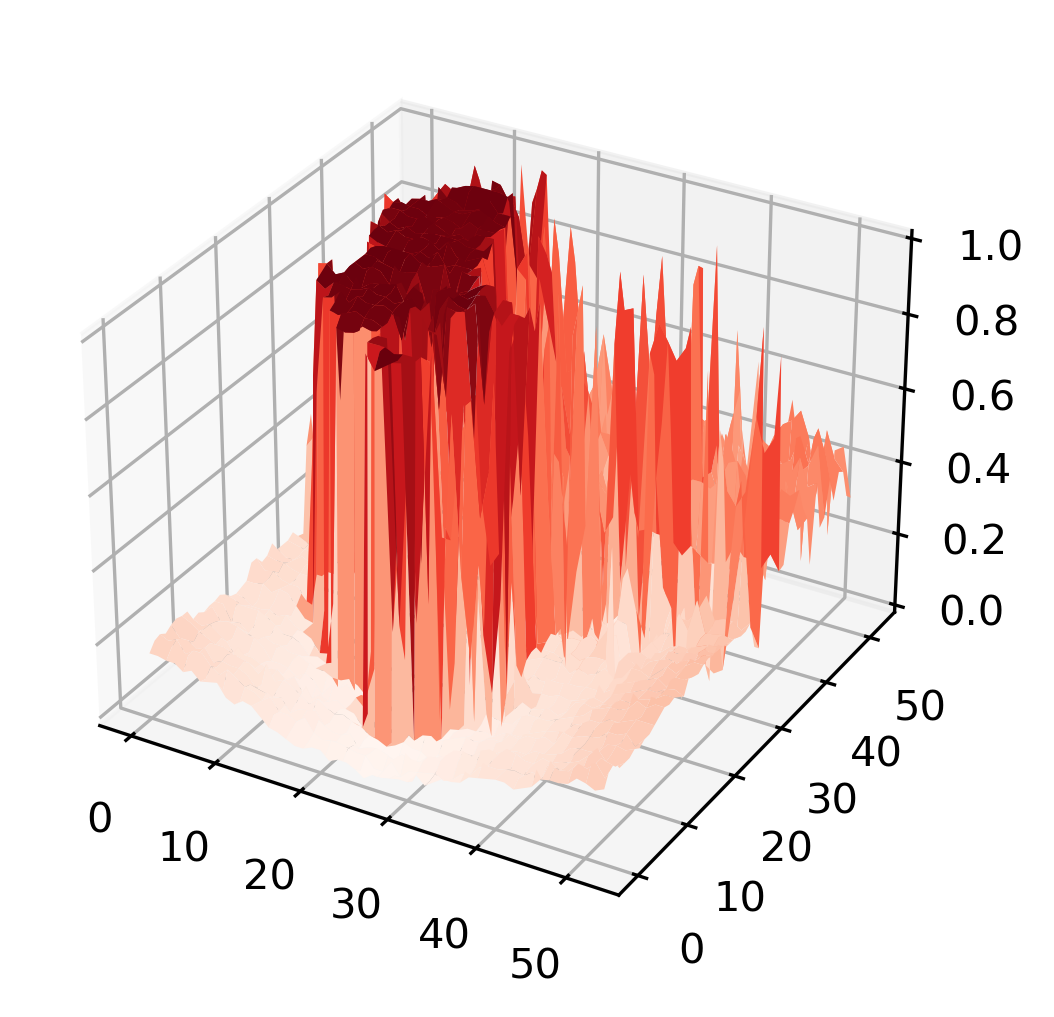
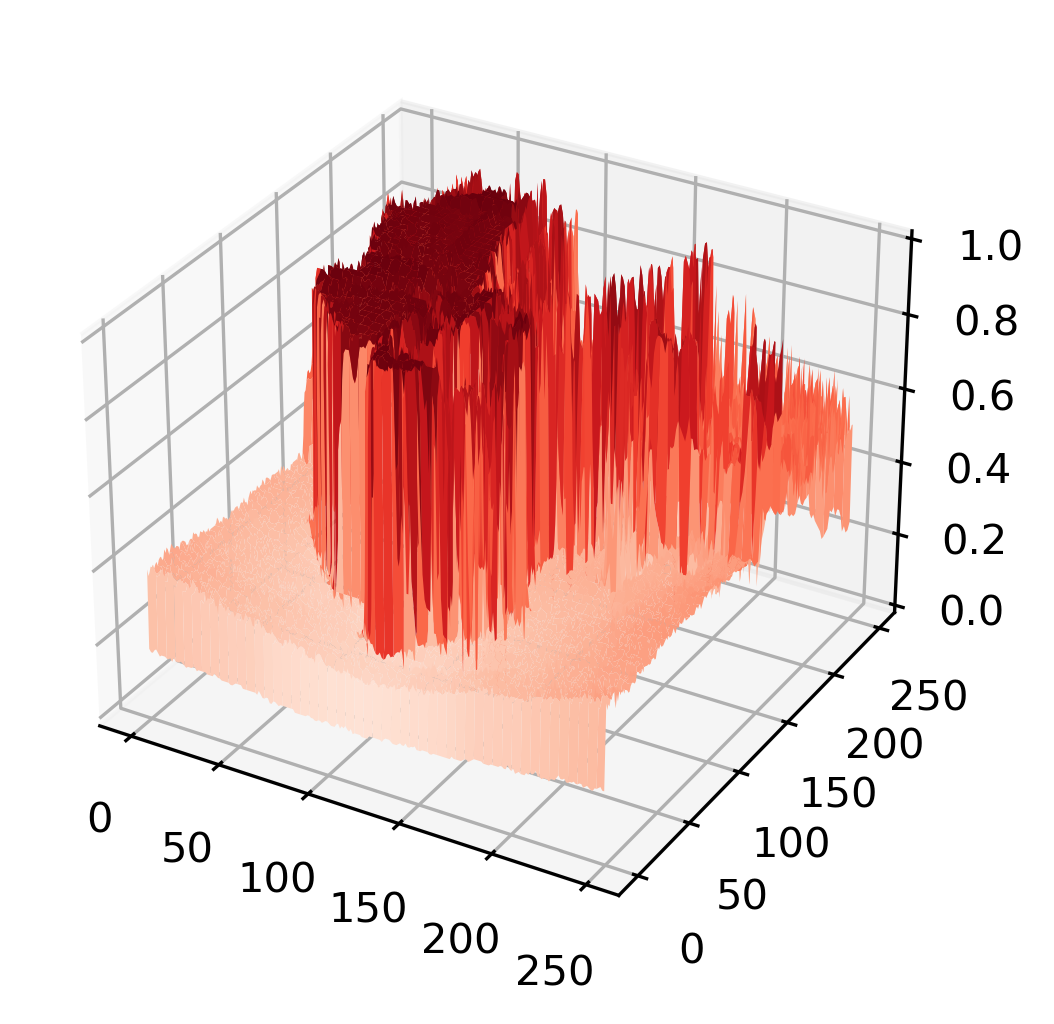
updated

diff --git a/nip.py b/nip.py
@@ -1,9 +1,4 @@
-# -*- coding: utf-8 -*-
-"""
-Created on Sat May  3 19:49:32 2025
 
-@author: Vinoth
-"""
 import os
 from NeutrosophicSet import *
 from Visualization import *
@@ -15,7 +10,7 @@ if not os.path.exists(folder_path):
 
 
 h = 3
-sz = 53
+sz = 250
 x = cv.imread("./samples/c_man.png", 0)
 tru = Neutrosophic_set(x, h, sz).truth_mem()
 ind = Neutrosophic_set(x, h, sz).indeter_mem()
